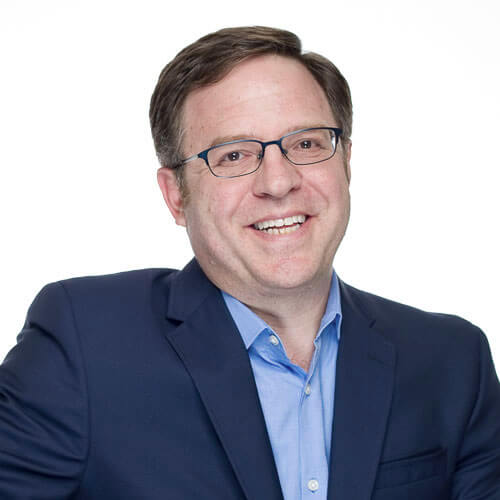
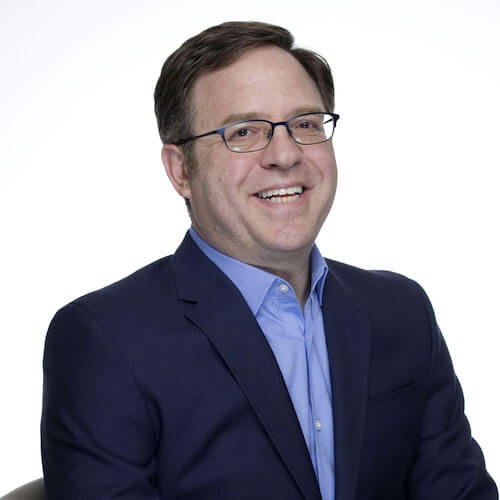
[fix #8412] Leadership updates
- Add Bob Alotta
- Update Alan Davidson’s headshot
- Move Ronaldo Lemos to former board

diff --git a/bedrock/mozorg/templates/mozorg/about/leadership.html b/bedrock/mozorg/templates/mozorg/about/leadership.html
@@ -961,6 +961,41 @@
         </div>
       </article>
 
+      <article id="j-bob-alotta" data-id="j-bob-alotta" class="vcard has-bio" itemscope itemtype="http://schema.org/Person">
+        <figure class="headshot">
+          {{ high_res_img('img/mozorg/about/leadership/bob-alotta.jpg', {'alt': '', 'width': '160', 'height': '160', 'class': 'photo', 'itemprop': 'image'}) }}
+          <figcaption><h4 class="fn" itemprop="name">J. Bob Alotta</h4></figcaption>
+        </figure>
+
+        <div class="person-info">
+          <p class="title" itemprop="jobTitle">{{ _('VP, Global Programs') }}</p>
+
+          <ul class="utility">
+            <li><a class="link" href="{{ url('mozorg.about.leadership') }}#j-bob-alotta">{{ _('Link to this bio') }}</a></li>
+          </ul>
+        </div>
+
+        <div class="person-bio">
+          <p>
+          {% trans %}
+            J. Bob Alotta is a veteran movement builder and nonprofit executive working at the intersection of technology and communities.
+          {% endtrans %}
+          </p>
+
+          <p>
+          {% trans %}
+            Prior to joining Mozilla, Bob led the Astraea Lesbian Foundation for Justice, a global foundation based in New York City that provides critical resources to LGBTQI+ organizations and individuals around the world. Over eight years, Bob quintupled the global footprint of the organization which makes more grants in the global south and east than any other funder in their sector. She built a funding program aimed specifically at strengthening movements by adding extra support for digital security, data use, and internet freedom to otherwise “non-tech” grants. Bob worked with major funders to bring money into Astraea -- and to influence what else these funders invested in worldwide. And, Bob built bridges between the LGBTQI+ and digital rights worlds.
+          {% endtrans %}
+          </p>
+
+          <p>
+          {% trans %}
+            It was through this last bit of work that Bob met Mozilla: At MozFest and as a Mozilla fellowship host organization. Now serving as Vice President, Global Programs at Mozilla Foundation, Bob brings their experience both building movements, and building bridges across movements. Bob works with allies across the movement to develop clear goals and real momentum on issues like trustworthy AI; helps Mozilla fellows and awardees become stronger community organizers and leaders; and grows the diversity and geographical scope across our programs, with an emphasis on expanding our work outside North America.
+          {% endtrans %}
+          </p>
+        </div>
+      </article>
+
       <article id="ashley-boyd" data-id="ashley-boyd" class="vcard has-bio" itemscope itemtype="http://schema.org/Person">
         <figure class="headshot">
           {{ high_res_img('img/mozorg/about/leadership/ashley-boyd.jpg', {'alt': '', 'width': '160', 'height': '160', 'class': 'photo', 'itemprop': 'image'}) }}
@@ -1212,12 +1247,6 @@
       </li>
       <li class="vcard" itemscope itemtype="http://schema.org/Person">
         <figure class="headshot">
-          {{ high_res_img('img/mozorg/about/leadership/ronaldo-lemos.jpg', {'alt': '', 'width': '160', 'height': '160', 'class': 'photo', 'itemprop': 'image'}) }}
-          <figcaption><h4 class="fn" itemprop="name">Ronaldo Lemos</h4></figcaption>
-        </figure>
-      </li>
-      <li class="vcard" itemscope itemtype="http://schema.org/Person">
-        <figure class="headshot">
           {{ high_res_img('img/mozorg/about/leadership/mohamed-nanabhay.jpg', {'alt': '', 'width': '160', 'height': '160', 'class': 'photo', 'itemprop': 'image', 'title': _('Photo by Joi Ito')}) }}
           <figcaption><h4 class="fn" itemprop="name">Mohamed Nanabhay</h4></figcaption>
         </figure>
@@ -1238,36 +1267,42 @@
 
     <h3 class="group-title">{{ _('Former Board Members') }}</h3>
 
-    <div class="gallery">
-      <article id="reid-hoffman" class="vcard" itemscope itemtype="http://schema.org/Person">
-        <figure class="headshot">
-          <img class="photo" itemprop="image" alt="" src="{{ static('img/mozorg/about/leadership/reid-hoffman.jpg') }}">
-          <figcaption><h4 class="fn" itemprop="name">Reid Hoffman</h4></figcaption>
-        </figure>
-      </article>
-
-      <article id="joi-ito" class="vcard" itemscope itemtype="http://schema.org/Person">
-        <figure class="headshot">
-          <img class="photo" itemprop="image" alt="" src="{{ static('img/mozorg/about/leadership/joi-ito.jpg') }}">
-          <figcaption><h4 class="fn" itemprop="name">Joi Ito</h4></figcaption>
-        </figure>
-      </article>
-
-      <article id="mitch-kapor" class="vcard" itemscope itemtype="http://schema.org/Person">
-        <figure class="headshot">
-          <img class="photo" itemprop="image" alt="" src="{{ static('img/mozorg/about/leadership/mitch-kapor.jpg') }}">
-          <figcaption><h4 class="fn" itemprop="name">Mitch Kapor</h4></figcaption>
-        </figure>
-      </article>
-
-      <article class="vcard" itemscope itemtype="http://schema.org/Person">
+    <ul class="gallery">
+      <li class="vcard" itemscope itemtype="http://schema.org/Person">
         <figure class="headshot">
           <img class="photo" itemprop="image" alt="" src="{{ static('img/mozorg/about/leadership/cathy-davidson.jpg') }}">
           <figcaption><h4 class="fn" itemprop="name">Cathy Davidson</h4></figcaption>
         </figure>
-      </article>
+      </li>
 
-    </div>
+      <li id="reid-hoffman" class="vcard" itemscope itemtype="http://schema.org/Person">
+        <figure class="headshot">
+          <img class="photo" itemprop="image" alt="" src="{{ static('img/mozorg/about/leadership/reid-hoffman.jpg') }}">
+          <figcaption><h4 class="fn" itemprop="name">Reid Hoffman</h4></figcaption>
+        </figure>
+      </li>
+
+      <li id="joi-ito" class="vcard" itemscope itemtype="http://schema.org/Person">
+        <figure class="headshot">
+          <img class="photo" itemprop="image" alt="" src="{{ static('img/mozorg/about/leadership/joi-ito.jpg') }}">
+          <figcaption><h4 class="fn" itemprop="name">Joi Ito</h4></figcaption>
+        </figure>
+      </li>
+
+      <li id="mitch-kapor" class="vcard" itemscope itemtype="http://schema.org/Person">
+        <figure class="headshot">
+          <img class="photo" itemprop="image" alt="" src="{{ static('img/mozorg/about/leadership/mitch-kapor.jpg') }}">
+          <figcaption><h4 class="fn" itemprop="name">Mitch Kapor</h4></figcaption>
+        </figure>
+      </li>
+
+      <li class="vcard" itemscope itemtype="http://schema.org/Person">
+        <figure class="headshot">
+          {{ high_res_img('img/mozorg/about/leadership/ronaldo-lemos.jpg', {'alt': '', 'width': '160', 'height': '160', 'class': 'photo', 'itemprop': 'image'}) }}
+          <figcaption><h4 class="fn" itemprop="name">Ronaldo Lemos</h4></figcaption>
+        </figure>
+      </li>
+    </ul>
 
     </div>
   </section>
